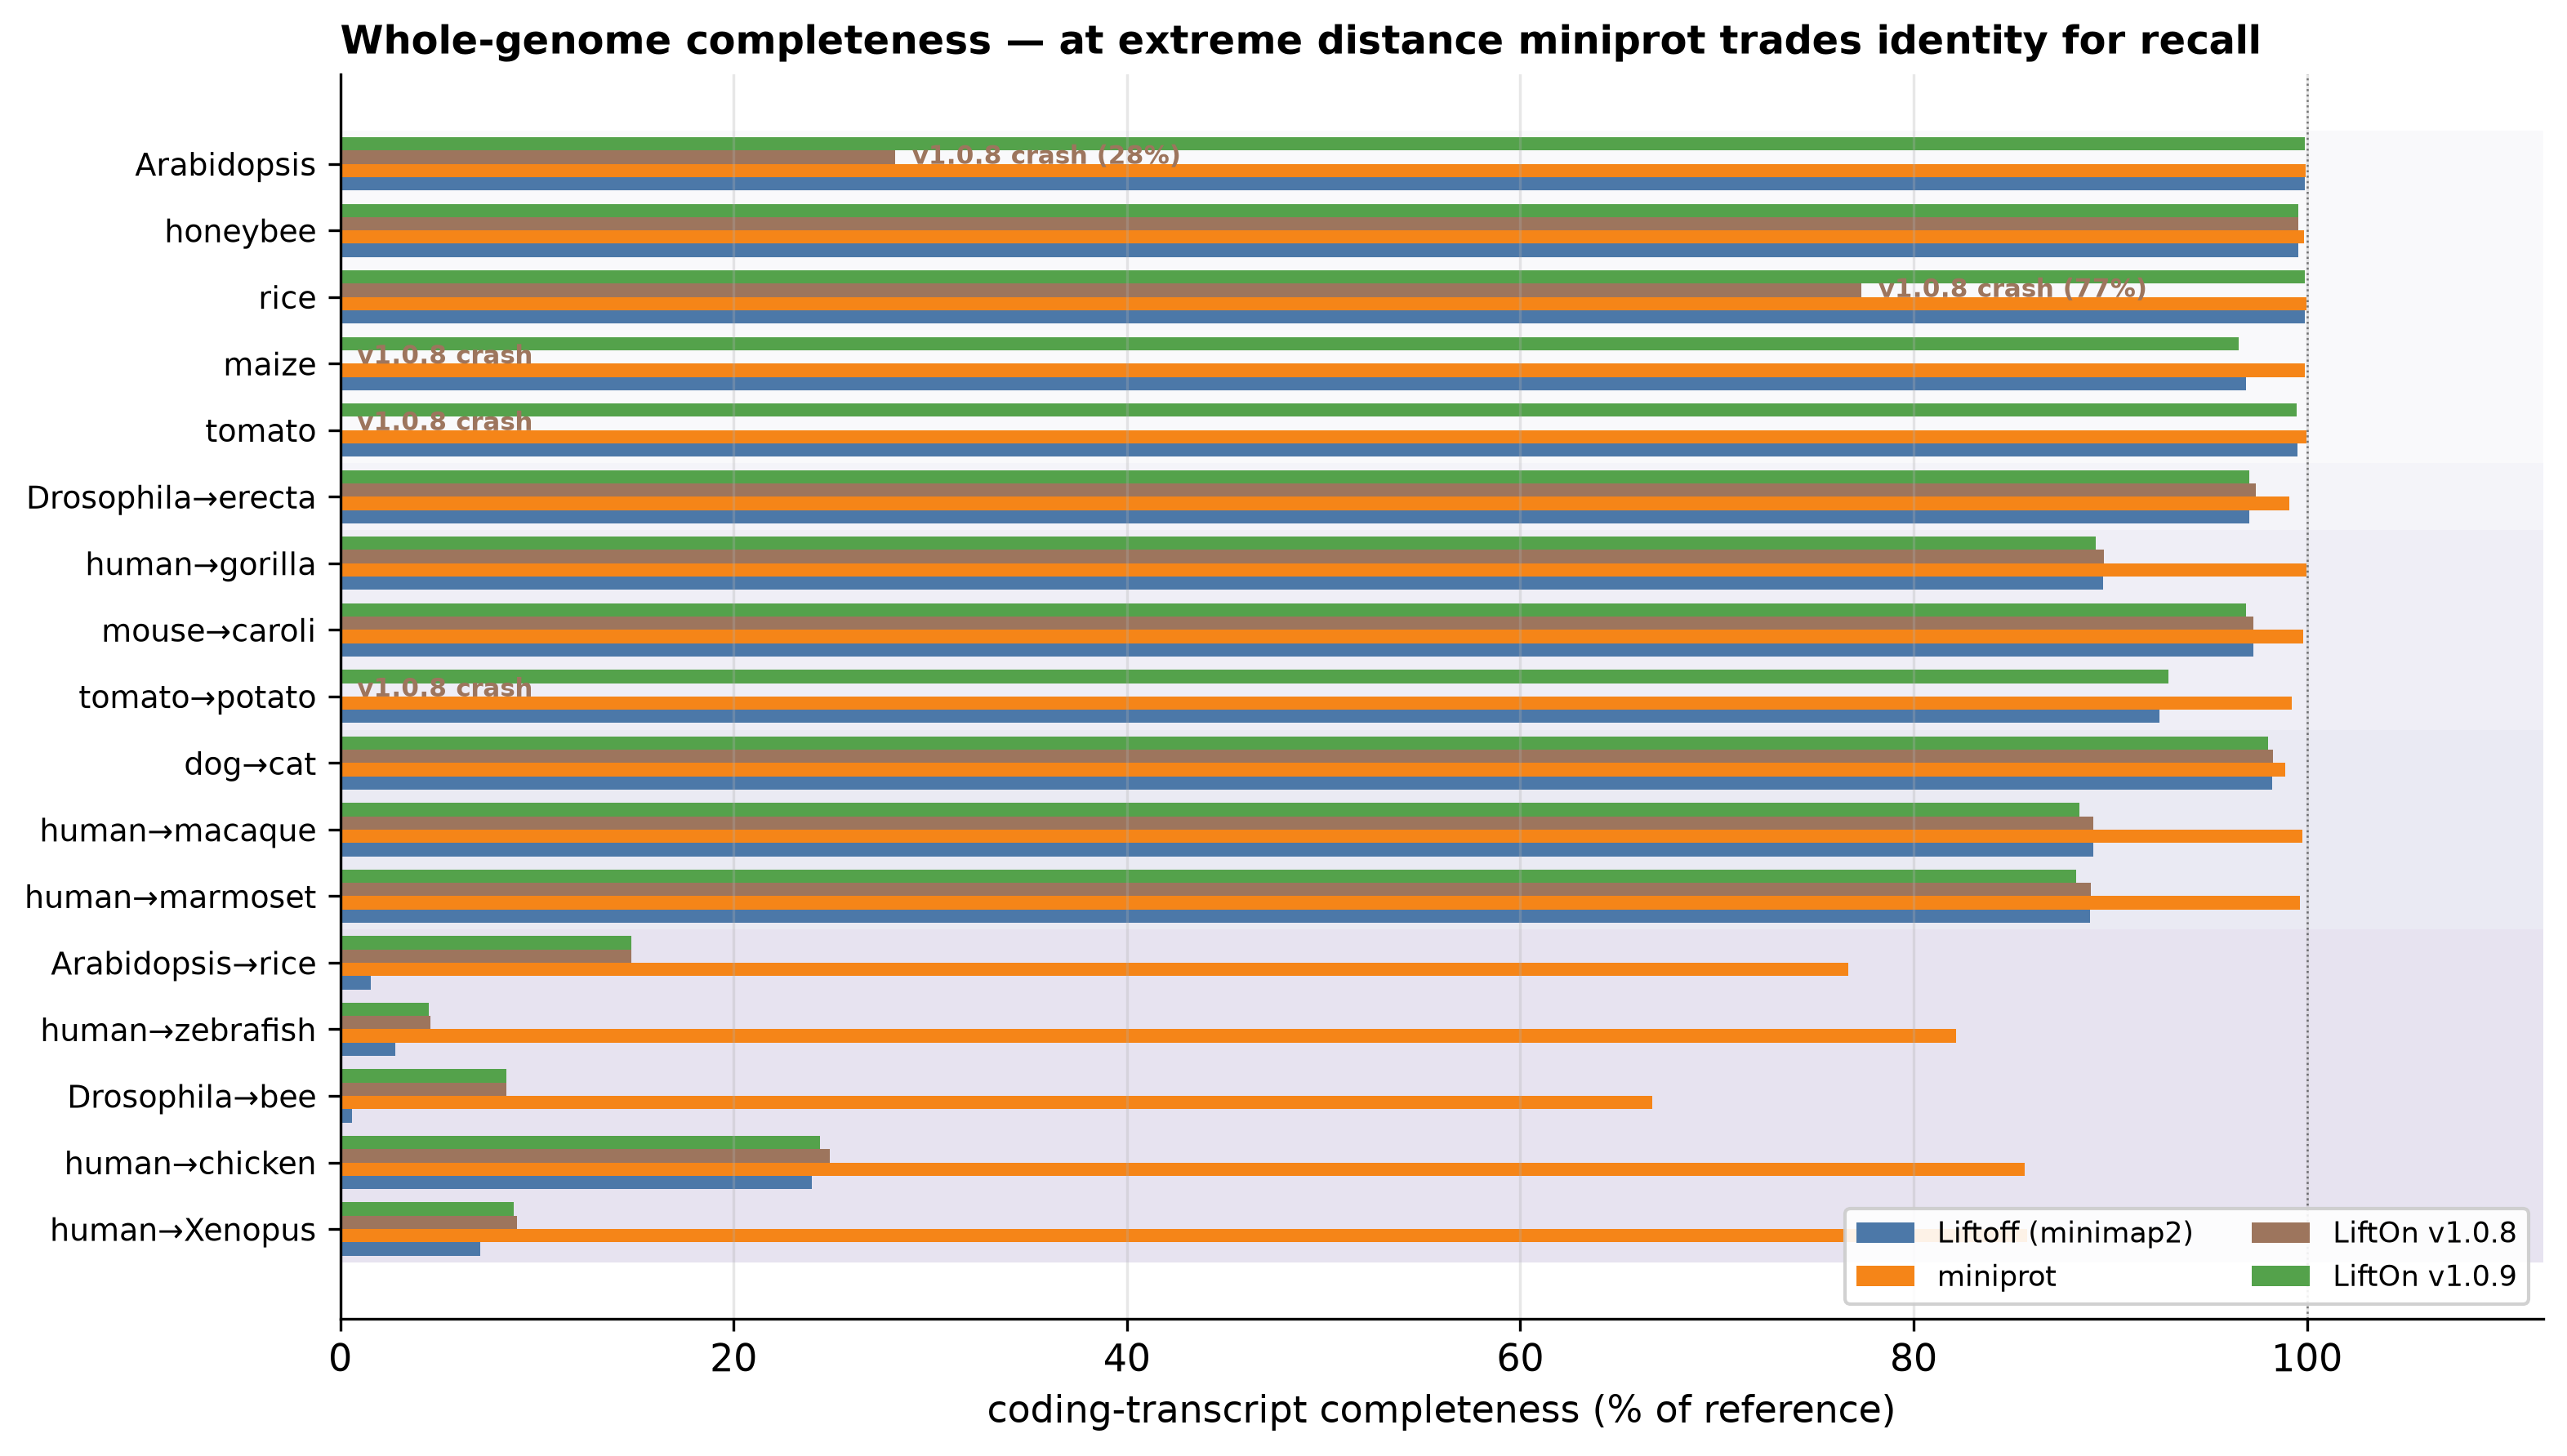
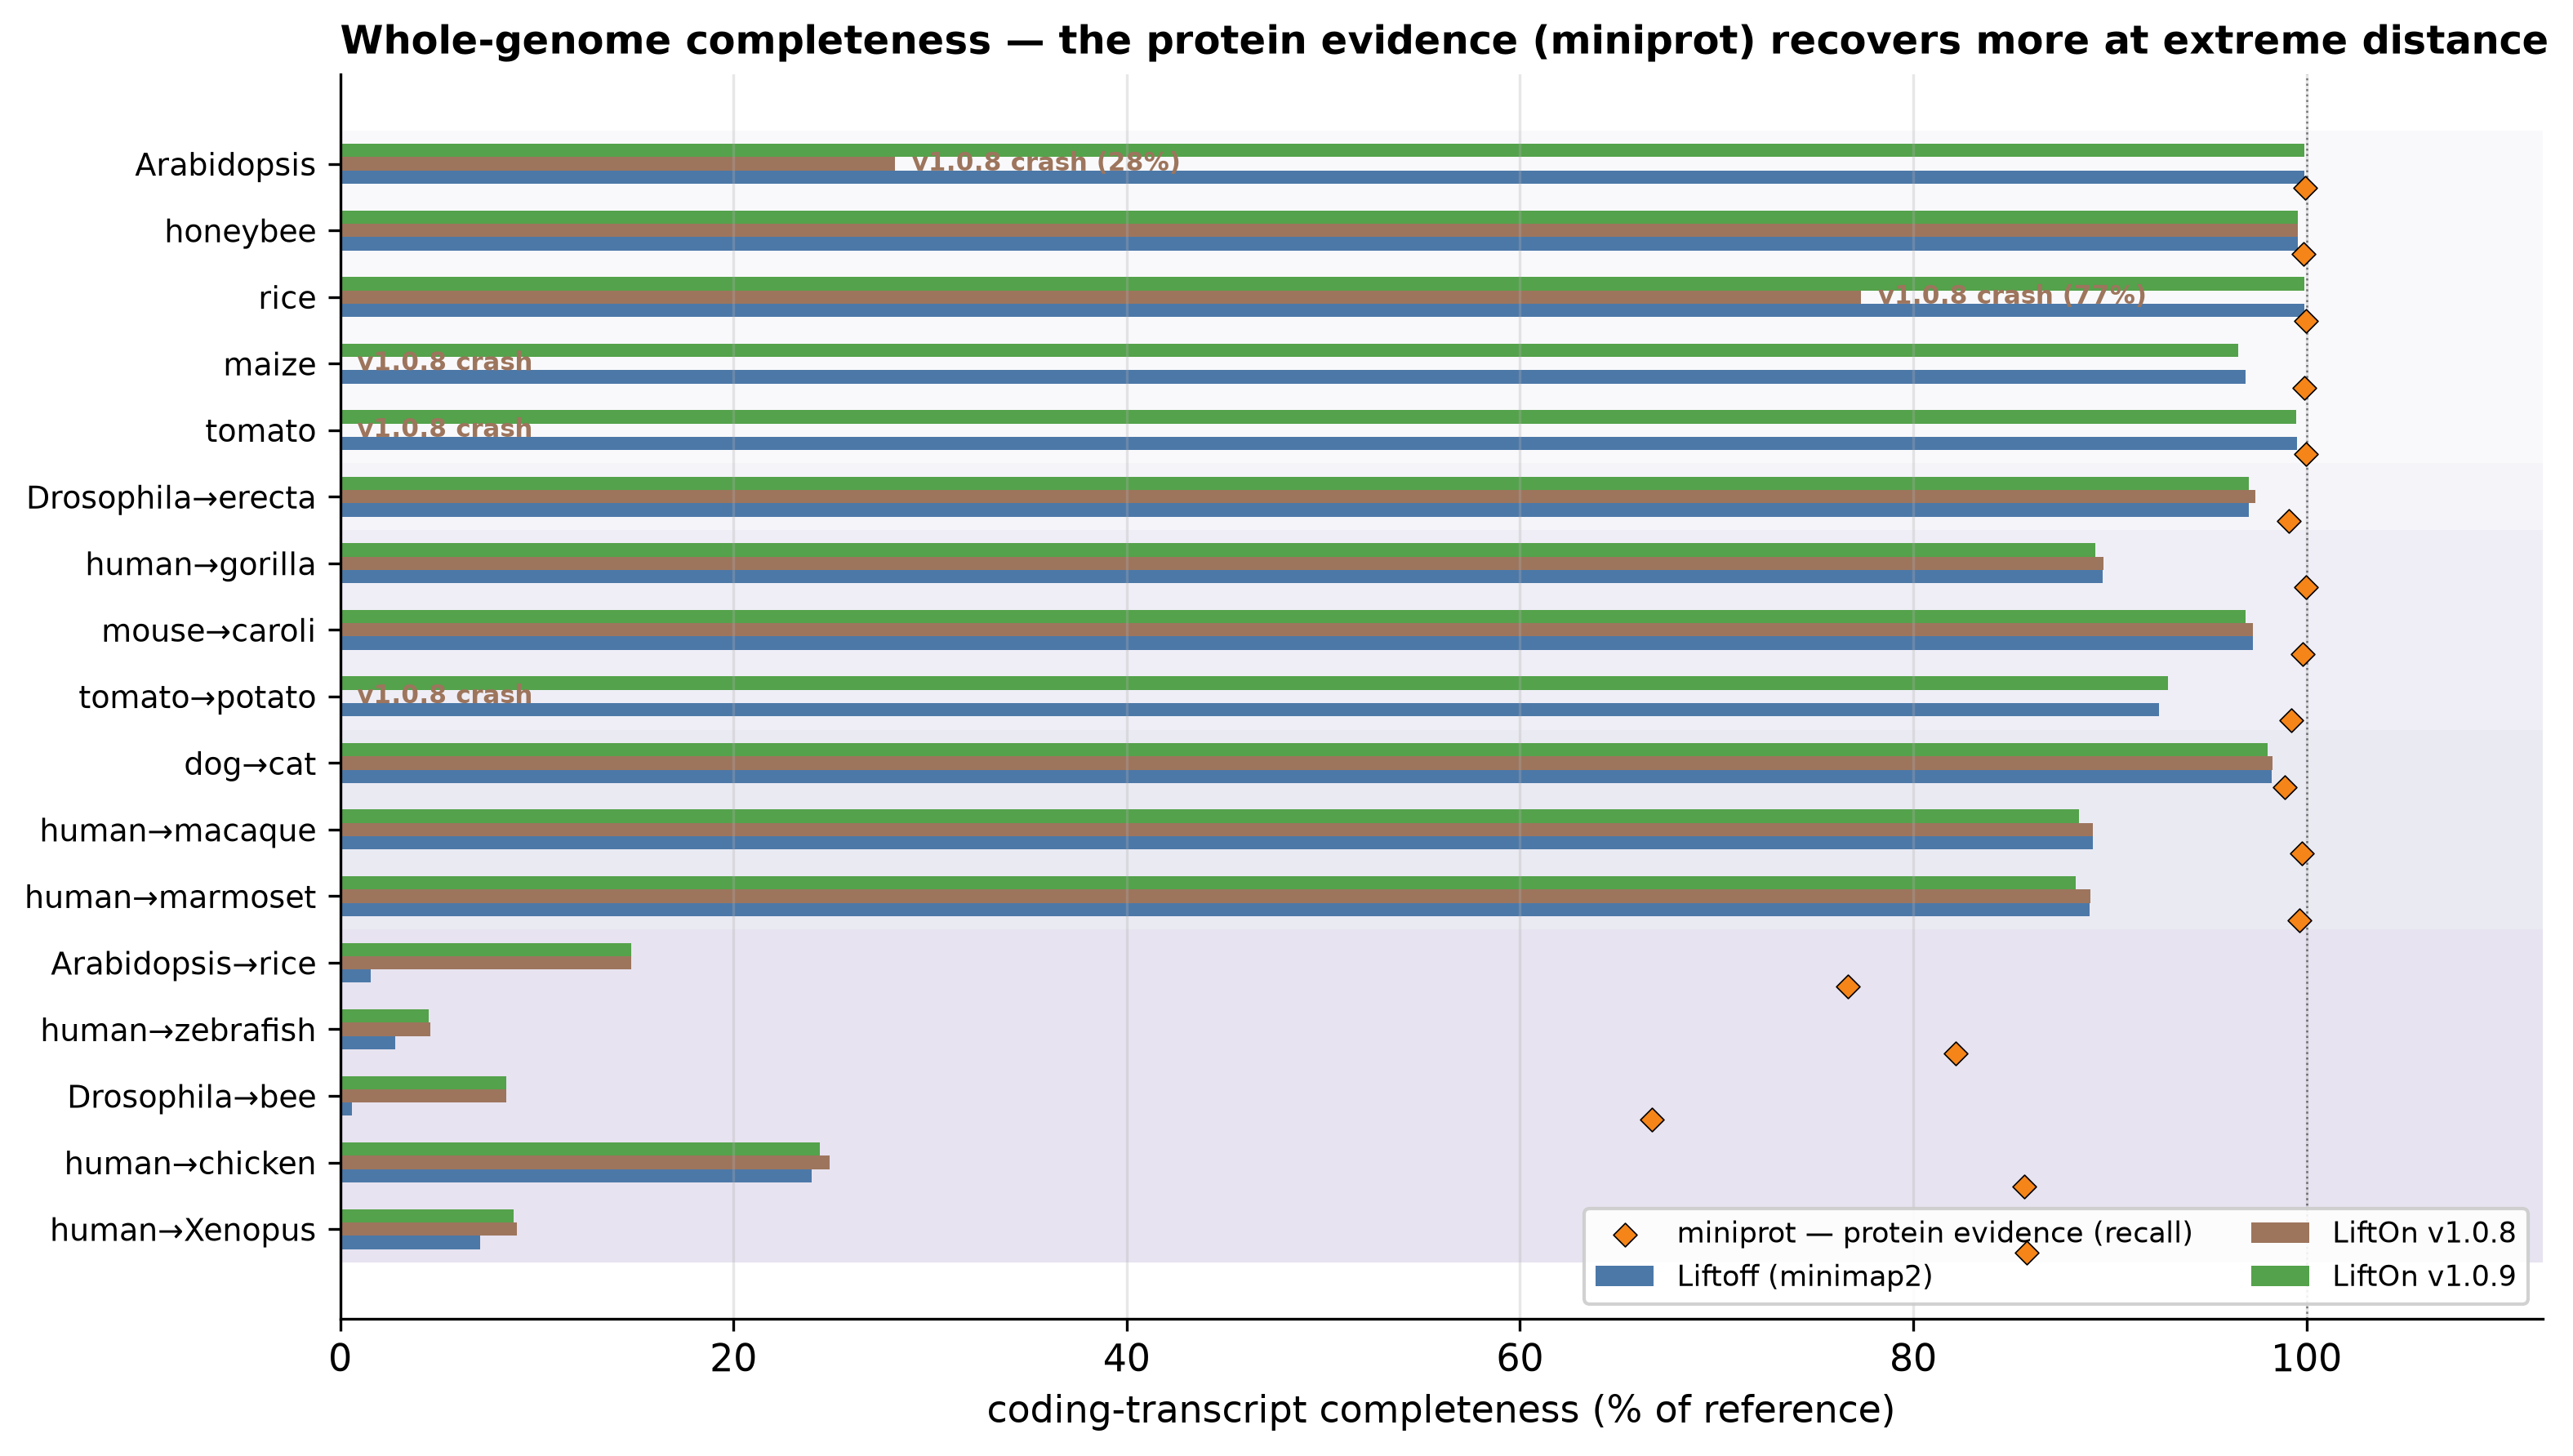
bench(report figures): demote miniprot to protein-evidence in the headline figures
Reframe the v1.0.9 report figures so miniprot is shown as LiftOn's internal
protein evidence (the -M input it fuses), not a rival lift-over tool. The
headline comparison is the three homology lift-over tools (Liftoff, LiftOn
v1.0.8, v1.0.9):
- master_report.py: add HEADLINE_TOOLS / EVIDENCE_TOOLS (+ EXT_TOOLS scaffolding
  for the upcoming CAT/LiftOver sub-study).
- fig_full_accuracy: panel A = the 3 lift-over tools (miniprot removed);
  suptitle "vs the DNA baseline (Liftoff)".
- fig_full_completeness: 3 headline bars + miniprot as distinct evidence
  diamonds (keeps the recall-trade-off story without a peer bar).
- fig_full_apples_to_apples: relabeled the protein-evidence view.

Presentation only; all numbers from the committed fourway_results.json unchanged.

Claude-Session: https://claude.ai/code/session_01BGA1R8hxE5ZKL2ieXNhWW4

diff --git a/benchmarks/compare/report_figures.py b/benchmarks/compare/report_figures.py
@@ -583,12 +583,14 @@ def fig_full_accuracy(fw):
     axA = fig.add_subplot(gs[0, 0])
     axB = fig.add_subplot(gs[0, 1])
 
-    # (A) four-way mean protein identity
+    # (A) headline accuracy — the three homology lift-over tools. miniprot is
+    # LiftOn's internal protein evidence (not a rival lift-over tool); its
+    # accuracy context lives in the dedicated protein-evidence figure, not here.
     _tier_bands(axA, recs)
-    for i, t in enumerate(mr.TOOLS):
+    for i, t in enumerate(mr.HEADLINE_TOOLS):
         vals = [r["mean_pi"].get(t) if isinstance(r["mean_pi"].get(t), float) else 0
                 for r in recs]
-        axA.barh(y + (1.5 - i) * h, vals, height=h, color=mr.TOOL_COLORS[t],
+        axA.barh(y + (1 - i) * h, vals, height=h, color=mr.TOOL_COLORS[t],
                  label=LABEL[t])
     axA.set_yticks(y)
     axA.set_yticklabels(labels, fontsize=9)
@@ -597,7 +599,7 @@ def fig_full_accuracy(fw):
     axA.set_xlabel("mean protein identity (tool-neutral parasail re-score)")
     axA.grid(axis="x", alpha=0.3)
     axA.legend(fontsize=8.5, loc="lower right", ncol=2, framealpha=0.9)
-    _panel_title(axA, "A", "Four tools, every whole genome (rows grouped by divergence tier)")
+    _panel_title(axA, "A", "Three lift-over tools (rows grouped by divergence tier)")
 
     # (B) devel − Liftoff: LiftOn's value-add over the pure-DNA model, which grows
     # from negligible (same-species, DNA already near-perfect) to enormous
@@ -623,7 +625,7 @@ def fig_full_accuracy(fw):
                          fontsize=7.5, fontweight="bold")
     _nwin = sum(1 for d in deltas if d is not None and d >= 0)
     _panel_title(axB, "B", f"Above the DNA baseline on every genome ({_nwin}/{len(recs)})")
-    fig.suptitle("Whole-genome accuracy: LiftOn v1.0.9 vs the DNA and protein baselines",
+    fig.suptitle("Whole-genome accuracy: LiftOn v1.0.9 vs the DNA baseline (Liftoff)",
                  fontsize=12.5, fontweight="bold", y=1.02)
     return _save(fig, "rfig_full_accuracy.png")
 
@@ -635,17 +637,26 @@ def fig_full_completeness(fw):
     h = 0.2
     fig, ax = plt.subplots(figsize=(11.6, 6.6))
     _tier_bands(ax, recs)
-    for i, t in enumerate(mr.TOOLS):
+    for i, t in enumerate(mr.HEADLINE_TOOLS):
         vals = [(r["completeness_coding"].get(t) or 0) * 100
                 if isinstance(r["completeness_coding"].get(t), float) else 0
                 for r in recs]
-        ax.barh(y + (1.5 - i) * h, vals, height=h, color=mr.TOOL_COLORS[t],
+        ax.barh(y + (1 - i) * h, vals, height=h, color=mr.TOOL_COLORS[t],
                 label=LABEL[t])
+    # miniprot is LiftOn's protein EVIDENCE, not a rival lift-over tool — show its
+    # (often much higher) recall as a distinct evidence marker, so the very-distant
+    # recall context stays visible without framing it as a headline bar.
+    mp = [(r["completeness_coding"].get("miniprot") or 0) * 100
+          if isinstance(r["completeness_coding"].get("miniprot"), float) else 0
+          for r in recs]
+    ax.scatter(mp, y + 1.8 * h, marker="D", s=24, color=mr.TOOL_COLORS["miniprot"],
+               edgecolor="k", linewidth=0.4, zorder=6,
+               label="miniprot — protein evidence (recall)")
     # mark the genomes v1.0.8 crashed on. Where it left a scorable partial
     # annotation (arabidopsis 28%, rice 77%) show that %; where it aborted with
     # no scorable whole-genome output (maize, tomato pairs) show just "crash"
     # at the axis origin rather than a misleading "0%".
-    stable_y = y + (1.5 - 2) * h
+    stable_y = y   # lifton_stable is the middle headline bar (offset 0)
     for yi, r in zip(stable_y, recs):
         if _is_stable_crash(r):
             scc = r["completeness_coding"].get("lifton_stable")
@@ -664,8 +675,9 @@ def fig_full_completeness(fw):
     ax.set_xlabel("coding-transcript completeness (% of reference)")
     ax.legend(fontsize=8.5, loc="lower right", ncol=2, framealpha=0.9)
     ax.grid(axis="x", alpha=0.3)
-    ax.set_title("Whole-genome completeness — at extreme distance miniprot trades "
-                 "identity for recall", fontsize=11.5, fontweight="bold", loc="left")
+    ax.set_title("Whole-genome completeness — the protein evidence (miniprot) "
+                 "recovers more at extreme distance", fontsize=11.5,
+                 fontweight="bold", loc="left")
     return _save(fig, "rfig_full_completeness.png")
 
 
@@ -738,7 +750,7 @@ def fig_full_apples_to_apples(fw):
              label="set-mean lead vs best(Liftoff, miniprot)")
     axA.barh(y + h / 2, [d or 0 for d in common], height=h,
              color=["#2ca02c" if (d or 0) >= 0 else "#d62728" for d in common],
-             label="apples-to-apples vs miniprot (common recovered set)")
+             label="apples-to-apples vs the protein evidence (common recovered set)")
     for yi, c, n in zip(y, common, ncom):
         if isinstance(n, int):
             axA.annotate(f"n={n:,}", (c or 0, yi + h / 2),
@@ -760,7 +772,8 @@ def fig_full_apples_to_apples(fw):
     cov_dev = [(r["joint"].get("covpi") or {}).get("lifton_devel", 0) for r in recs]
     cov_mp = [(r["joint"].get("covpi") or {}).get("miniprot", 0) for r in recs]
     axB.barh(y - h / 2, cov_dev, height=h, color=mr.TOOL_COLORS["lifton_devel"], label="LiftOn v1.0.9")
-    axB.barh(y + h / 2, cov_mp, height=h, color=mr.TOOL_COLORS["miniprot"], label="miniprot")
+    axB.barh(y + h / 2, cov_mp, height=h, color=mr.TOOL_COLORS["miniprot"],
+             label="miniprot (protein evidence)")
     axB.set_yticks(y)
     axB.set_yticklabels(labels, fontsize=9)
     axB.invert_yaxis()
@@ -769,8 +782,9 @@ def fig_full_apples_to_apples(fw):
     axB.grid(axis="x", alpha=0.3)
     axB.legend(fontsize=8.5, loc="lower right", framealpha=0.9)
     _panel_title(axB, "B", "Coverage-weighted PI (recall × accuracy)")
-    fig.suptitle("The joint recall-vs-identity view — locating the genuine per-transcript win",
-                 fontsize=12.5, fontweight="bold", y=1.02)
+    fig.suptitle("Protein-evidence view: LiftOn v1.0.9 vs the miniprot signal it fuses "
+                 "(miniprot is evidence, not a rival lift-over tool)",
+                 fontsize=11.8, fontweight="bold", y=1.02)
     return _save(fig, "rfig_full_apples_to_apples.png")
 
 

diff --git a/benchmarks/compare/master_report.py b/benchmarks/compare/master_report.py
@@ -49,6 +49,25 @@ TOOL_SHORT = {"liftoff": "Liftoff", "miniprot": "miniprot",
 TOOL_COLORS = {"liftoff": "#4c78a8", "miniprot": "#f58518",
                "lifton_stable": "#9d755d", "lifton_devel": "#54a24b"}
 
+# miniprot is LiftOn's INTERNAL protein evidence (the -M input it fuses), NOT a
+# rival homology lift-over tool. The HEADLINE comparison is the three lift-over
+# tools (each takes only (ref, ref-annotation, target) and emits a re-scorable
+# annotation); miniprot is shown ONLY as protein-evidence context (the apples-to-
+# apples / coverage-weighted view), never as a headline bar. `TOOLS` stays the
+# full data-bearing set (scoring + joint metrics still compute the miniprot column).
+HEADLINE_TOOLS = ["liftoff", "lifton_stable", "lifton_devel"]
+EVIDENCE_TOOLS = ["miniprot"]
+
+# Stage-F broader comparison (5-pair sub-study): the headline lift-over tools +
+# CAT v1/v2 (alignment-based comparative annotators; need a precomputed Cactus
+# alignment) + coordinate LiftOver (chain-based; coordinate-only, out-of-class).
+EXT_TOOLS = ["liftoff", "lifton_stable", "lifton_devel", "cat_v1", "cat_v2", "liftover"]
+TOOL_LABEL.update({"cat_v1": "CAT v1", "cat_v2": "CAT v2",
+                   "liftover": "LiftOver (coord-only)"})
+TOOL_SHORT.update({"cat_v1": "CAT v1", "cat_v2": "CAT v2", "liftover": "LiftOver"})
+# CAT = teals (distinct from LiftOn green); LiftOver = grey (out-of-class).
+TOOL_COLORS.update({"cat_v1": "#17becf", "cat_v2": "#1f9aa0", "liftover": "#9e9e9e"})
+
 # gene-like feature types the devel default lifts that v1.0.8 / naive Liftoff drop
 GENE_LIKE = ("pseudogene", "ncRNA", "lnc_RNA", "lncRNA", "tRNA", "rRNA",
              "snoRNA", "snRNA", "miRNA", "ncRNA_gene", "transposable_element_gene",